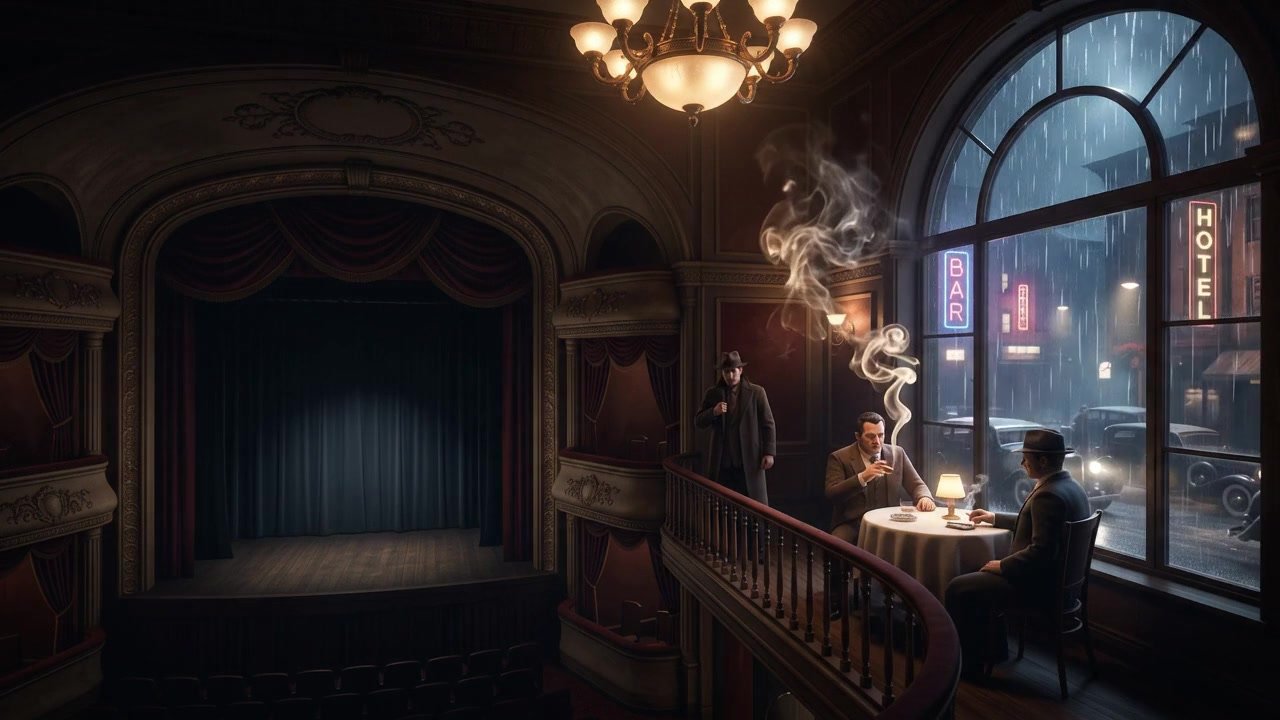
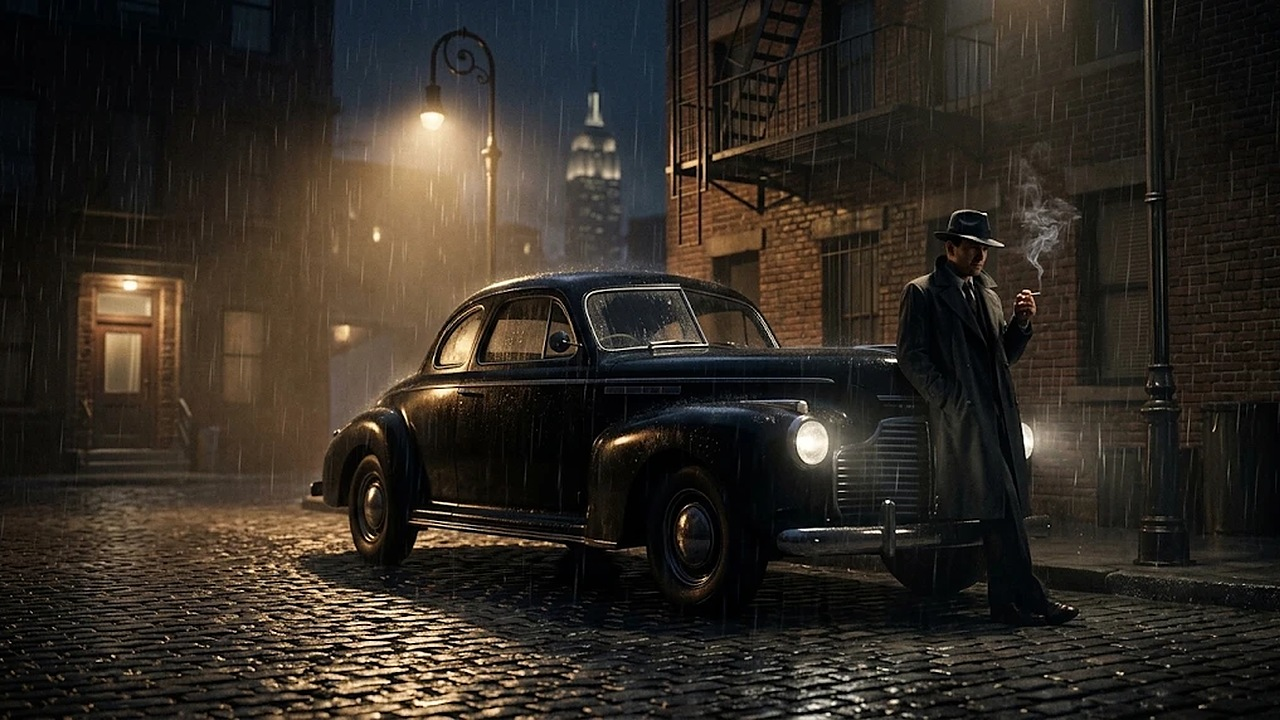
Switch background to the mirrored rainy street scene
- New still background: the street image mirrored so the man sits to
  the right of the menu panel instead of hidden behind it
- Keep the original image and the previous bar video for reference;
  video playback is off until the street scene's clip exists
- Add assets/animation/PROMPT.md with the image-to-video prompt

Claude-Session: https://claude.ai/code/session_01RRxtgosqF2eXw4co9LTHgJ

diff --git a/main-menu/js/menu.config.js b/main-menu/js/menu.config.js
@@ -120,7 +120,10 @@ window.MENU_CONFIG = {
                1 = soft cross-fade between frames
        keepEffects: true keeps the rain / neon / smoke effects on top */
     animation: {
-      video: ["assets/animation/bar-loop.mp4", "assets/animation/bar-loop.webm"],
+      // Street scene: waiting for its animated clip (see assets/animation/PROMPT.md).
+      // Previous bar video, still available:
+      //   video: ["assets/animation/bar-loop.mp4", "assets/animation/bar-loop.webm"],
+      video: null,
       frames: null,
       fps: 10,
       mode: "loop",

diff --git a/main-menu/assets/animation/PROMPT.md b/main-menu/assets/animation/PROMPT.md
@@ -1,0 +1,49 @@
+# Animation prompt: street scene
+
+Upload `assets/backgrounds/street-mirrored.jpg` (the man on the RIGHT) as the starting image. The menu panel covers the left third of the screen, so the man has to stay on the right.
+
+Tool settings:
+- **Image to video**, using the picture as the **first frame**.
+- If the tool has an end-frame option, use the **same picture as the last frame** too.
+- 16:9, 1080p if available, 8–10 seconds.
+
+## Prompt
+
+```
+Bring this exact photograph to life as a seamless, looping cinematic shot. Keep the composition, framing, lighting, colors and every object exactly as they are in the image. This is a living painting, not a new scene.
+
+CAMERA: Completely locked-off tripod shot. No camera movement at all: no pan, no tilt, no zoom, no dolly, no shake, no focus change. The frame never moves.
+
+SETTING: A rain-soaked 1940s New York side street at night. Red-brick tenement buildings with an iron fire escape, wet cobblestones, an old cast-iron street lamp, and the Empire State Building glowing in the misty distance.
+
+RAIN: Steady, medium-heavy rain falls in thin silver streaks at a slight consistent angle across the whole frame for the entire clip, at the same speed and density from first frame to last. Raindrops land on the cobblestones, making small splashes and gentle ripples in the shallow puddles between the stones. The wet cobblestones keep reflecting the warm lamplight and the car's headlights with a soft shimmer as the water moves. Rain runs down the brick walls and drips from the fire escape.
+
+THE CAR: The black 1940s coupe stays parked and perfectly still. It does not move, roll, bounce or change shape. Its headlights stay on and steady, with rain visibly falling through the beams. Raindrops bead on the glossy black paint and slowly trickle down the hood, fenders and windshield. Reflections slide gently across the wet bodywork.
+
+THE MAN: The man in the long dark overcoat and fedora stays leaning against the front of the car in the same spot the whole time. He does not walk, turn around or leave. His face, hat, coat and build stay exactly the same, with no morphing or warping. Slow, calm, natural movement only:
+- At about 2 seconds he slowly raises the cigarette to his lips and takes a long drag. The ember glows brighter orange.
+- At about 4 seconds he lowers his hand back to the same resting position.
+- At about 5 seconds he exhales a soft plume of smoke that curls upward and drifts sideways, thinning out in the rain.
+- He breathes slowly. A thin wisp of smoke rises continuously from the cigarette between drags.
+- The hem of his coat moves very slightly in the wind. Water drips occasionally from the brim of his hat.
+- By the last second he is back in exactly the same pose as in the first frame.
+
+LIGHT AND ATMOSPHERE: The street lamp keeps its warm amber glow with a very subtle, natural flicker, and rain sparkles in its halo. Light mist and fog drift slowly through the street and around the distant skyline. The Empire State Building's lights stay steady. Warm windows stay lit. Everything keeps its moody film-noir color grade: deep shadows, warm amber highlights, cool blue night tones.
+
+LOOP: The last frame must match the first frame as closely as possible (same pose, same smoke position, same light) so the clip loops forever with no visible jump.
+
+QUALITY: Photorealistic, cinematic, sharp detail, natural motion, 24 fps, no flicker or frame jitter, no blurriness, consistent detail in every frame.
+```
+
+## Negative prompt (if the tool has a separate box for it)
+
+```
+camera movement, zoom, pan, shake, cuts, scene change, new people, extra people, car driving, car moving, wheels turning, man walking away, man turning around, face morphing, warped hands, extra fingers, distorted car, changing car shape, flickering frame, strobing light, lightning flash, text, letters, logo, watermark, subtitles, cartoon, painting style change, color shift, oversaturated, blurry, low resolution, slow motion, speeding up
+```
+
+## If something goes wrong
+
+- **The man walks or turns:** add "He remains leaning against the car the entire time" at the start of the prompt and generate again.
+- **The camera moves:** many tools have a "camera: static" or "fixed camera" setting. Turn it on.
+- **It doesn't loop cleanly:** send it anyway. The menu project blends the end into the start (see the README).
+- **The face or hands warp:** make the motion smaller. Replace the drag-and-exhale section with "He holds the cigarette still while smoke rises from it."
